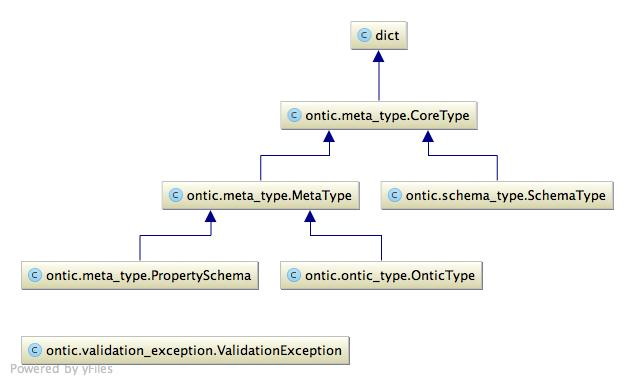
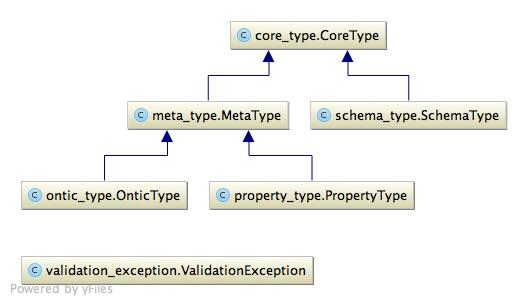
Cleaned up documentation.

Changed region(s): [[0.0303, 0.0295, 0.9697, 0.7672], [0.0, 0.8262, 0.6061, 0.9738]]

diff --git a/ontic/property_type.py b/ontic/property_type.py
@@ -1,7 +1,7 @@
 """The base class for deriving types that require schema support.
 
 
-.. image:: images/metadata_types.jpg
+.. image:: images/property_type.jpg
 
 .. contents::
 
@@ -442,7 +442,7 @@ def validate_property_type(candidate_property_type,
     """Method to validate a property schema definition.
 
     :param candidate_property_type: The schema property to be validated.
-    :type cacandidate_property_type:class:`property_type.PropertyType`
+    :type cacandidate_property_type: :class:`property_type.PropertyType`
     :param raise_validation_exception: If True, then *validate_property_type*
         will throw a *ValueException* upon validation failure. If False,
         then a list of validation errors is returned. Defaults to True.
@@ -487,7 +487,7 @@ def perfect_property_type(candidate_property_type):
 
     :param candidate_property_type: The PropertyType that is to be
         clean and restricted.
-    :type cacandidate_property_type:class:`property_type.PropertyType`
+    :type cacandidate_property_type: :class:`property_type.PropertyType`
     :rtype: None
     :raises ValueError: If the candidate_property_type is None, or not
         of type *PropertyType*.

diff --git a/doc/index.rst b/doc/index.rst
@@ -1,11 +1,10 @@
 =============================================================
-Ontic - of or relating to entities and the facts about them
+Ontic - Of or Relating to Entities and the Facts about Them
 =============================================================
 
-The goal of **Ontic** is to provide a pure data object that is flexible to use in
-a python project. The motivation is to make it simple to utilize in a
-development environment that interfaces with external services and
-third-party tools, but not require an extensive library to convert objects.
+**Ontic** is an object definition tool. **Ontic** provides schema definition of
+object types that are accessible as a class instance or as a dictionary.
+**Ontic** also provides the tools to validate and perfect type instances.
 
 To that end **Ontic** objects can be accessed through attribute access or via
 dictionary key access. The theory is that most third party libraries, from JSON
@@ -18,7 +17,7 @@ example::
   >>> assert an_object.property1 == 1
   >>> an_object.property2 = 2
   >>> assert an_object['property2] == 2
-  >>> json.dumps(an_object)  # an_object implements dict.
+  >>> json.dumps(an_object)  # an_object implements dict interface.
     '{"property1": 1, "property2": 2}'
 
 As **Ontic** objects are designed to be utilized as pure data objects, they
@@ -67,10 +66,6 @@ and dynamic definition of Ontic type with schema.
 For full coverage of schema definitions and usage details,
 see :ref:`getting-started-with-ontic`.
 
-.. warning::
-    The limitation to this approach is that **Ontic** objects should not be
-    monkey patched with any public methods.
-
 *Share and Enjoy*.
 
 Usage Documentation
@@ -88,7 +83,7 @@ API Specification
   ontic.core_type
   ontic.meta_type
   ontic.ontic_type
-  ontic.property_schema
+  ontic.property_type
   ontic.schema_type
   ontic.validation_exception
 

diff --git a/doc/ontic.meta_type.rst b/doc/ontic.meta_type.rst
@@ -1,5 +1,5 @@
 ==============================================
-CoreType, MetaType, and PropertyType Module
+MetaType Module
 ==============================================
 
 .. automodule:: ontic.meta_type
@@ -11,15 +11,6 @@ MetaType
 ---------
 
 .. autoclass:: MetaType
-    :special-members: __init__
-    :members:
-
----------------------------------------
-
-PropertyType
----------------
-
-.. autoclass:: PropertyType
     :special-members: __init__
     :members:
 
@@ -58,13 +49,6 @@ non_none_singular_validation
 -----------------------------
 
 .. autofunction:: non_none_singular_validation
-
----------------------------------------
-
-perfect_property_type
-------------------------
-
-.. autofunction:: perfect_property_type
 
 ---------------------------------------
 
@@ -114,13 +98,6 @@ validate_non_none_value
 ------------------------
 
 .. autofunction:: validate_non_none_value
-
----------------------------------------
-
-validate_property_type
--------------------------
-
-.. autofunction:: validate_property_type
 
 ---------------------------------------
 
